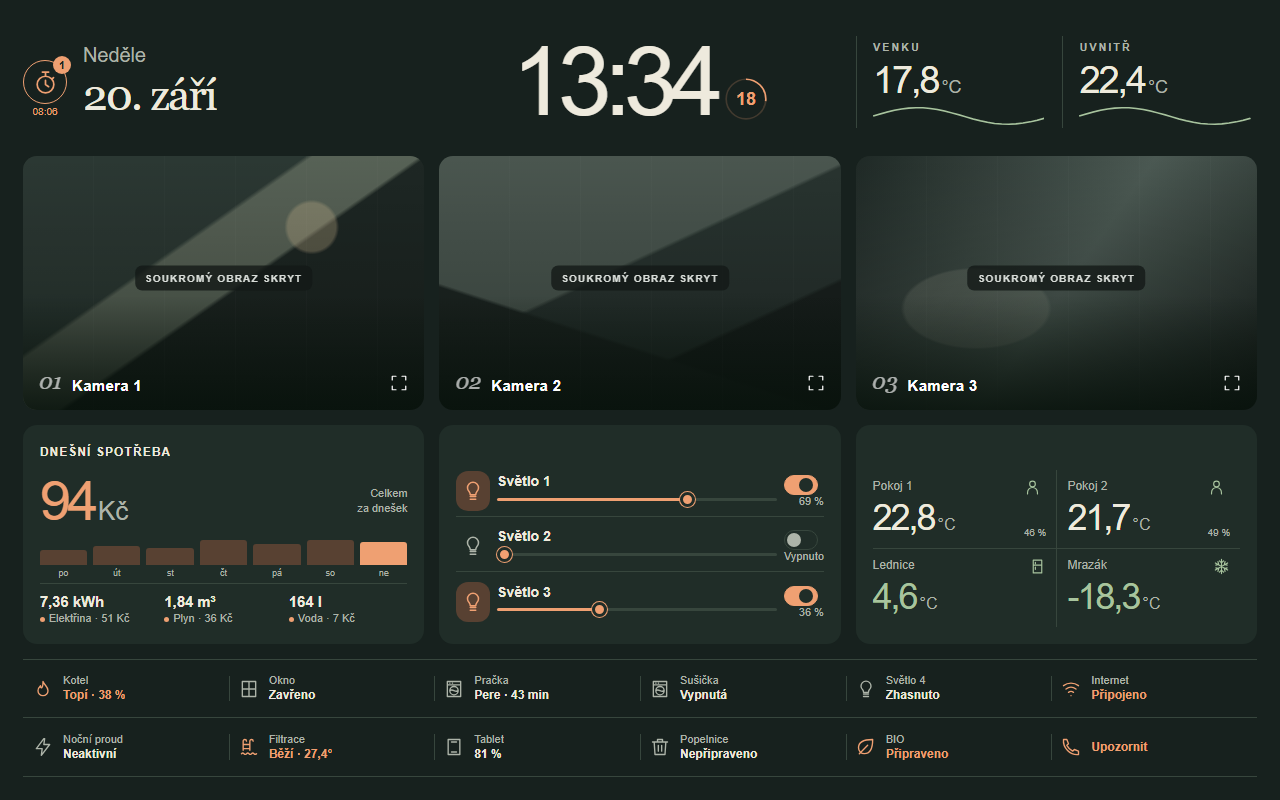
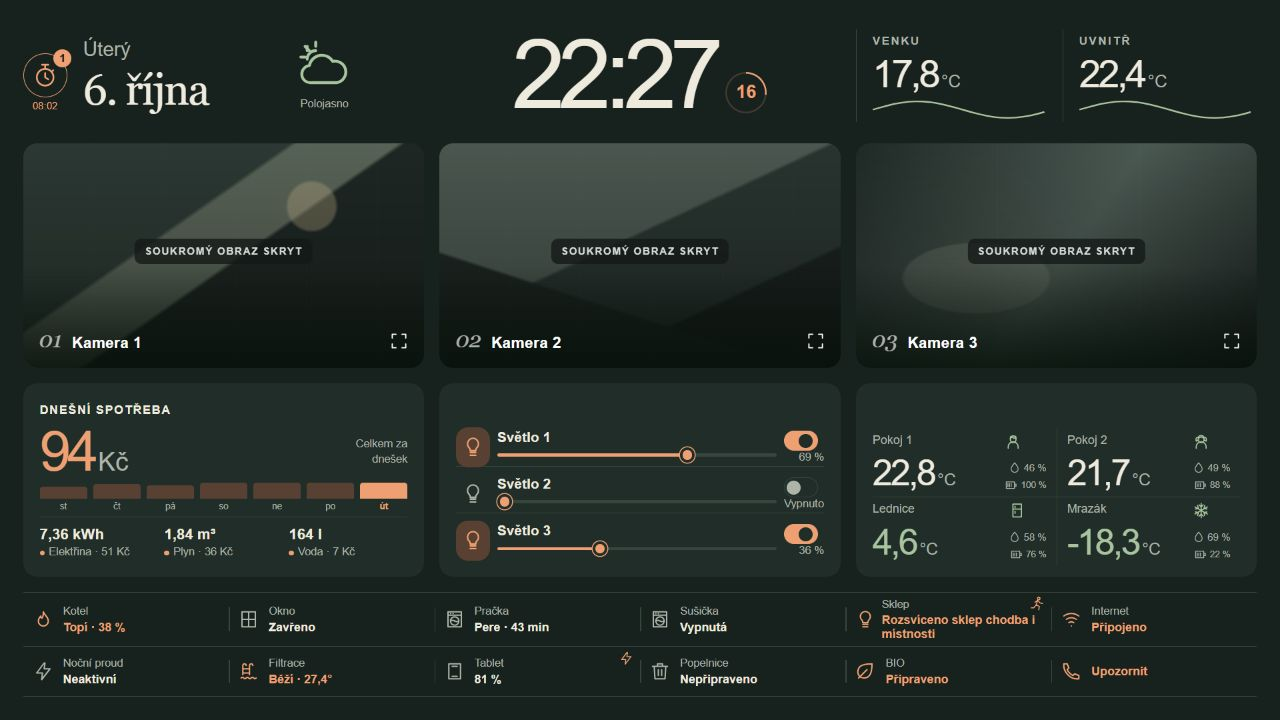
Interaktivní graf spotřeby, výběr dne a aktualizovaný náhled

diff --git a/www/kitchen-atlas.js b/www/kitchen-atlas.js
@@ -20,6 +20,8 @@ const LIGHTS=[['light.example_light_1','Světlo 1','Pracovní plocha'],['light.e
 const CAMERAS=[['camera.example_camera_1','Kamera 1'],['camera.example_camera_2','Kamera 2'],['camera.example_camera_3','Kamera 3']];
 const TEMPS=[['sensor.example_room_1_temperature','Pokoj 1','boy','sensor.example_room_1_humidity','sensor.example_room_1_battery'],['sensor.example_room_2_temperature','Pokoj 2','girl','sensor.example_room_2_humidity','sensor.example_room_2_battery'],['sensor.example_fridge_temperature','Lednice','fridge','sensor.example_fridge_humidity','sensor.example_fridge_battery'],['sensor.example_freezer_temperature','Mrazák','snow','sensor.example_freezer_humidity','sensor.example_freezer_battery']];
 const STATUS=[['binary_sensor.example_heating_active','Kotel','flame'],['binary_sensor.example_window_open','Okno','window'],['sensor.example_washer_state','Pračka','washer'],['sensor.example_dryer_state','Sušička','washer'],['switch.example_cellar_hall','Sklep','bulb'],['binary_sensor.example_internet_online','Internet','wifi'],['binary_sensor.example_low_tariff','Noční proud','bolt'],['switch.example_pool_filter','Filtrace','pool'],['sensor.example_tablet_battery','Tablet','battery'],['input_boolean.example_bin_ready','Popelnice','bin'],['input_boolean.example_bio_bin_ready','BIO','leaf'],['input_button.example_notification_button','Upozornit','phone']];
+const ENERGY_METRICS=[['electric','sensor.example_daily_electricity','sensor.example_daily_electricity_cost',2],['gas','sensor.example_daily_gas','sensor.example_daily_gas_cost',2],['water','sensor.example_daily_water','sensor.example_daily_water_cost',0]];
+const ENERGY_TOTAL='sensor.example_daily_total_cost';
 const WEATHER_ENTITY='weather.example_weather';
 const HEATING_ENTITY='climate.example_thermostat';
 const CELLAR_LIGHTS=[['switch.example_cellar_hall','Chodba'],['switch.example_cellar_room_1','Místnost 1'],['switch.example_cellar_room_2','Místnost 2'],['switch.example_cellar_room_3','Místnost 3'],['switch.example_cellar_room_4','Místnost 4']];
@@ -44,7 +46,7 @@ const CSS=`
 @media(max-width:760px){.weather-mark{gap:3px}.weather-mark svg{width:24px;height:24px}.weather-label{font-size:9px}}
 .timeblock{display:flex;align-items:center;justify-content:center;gap:8px}.clock{font-size:clamp(56px,7.5vw,110px);font-weight:500;letter-spacing:-.075em;line-height:1;color:var(--ink)}.seconds-wrap{display:grid;place-items:center;position:relative;width:44px;height:44px;align-self:end;margin-bottom:9px;color:var(--accent)}.seconds-wrap svg{position:absolute;inset:0;width:100%;height:100%;transform:rotate(-90deg)}.seconds{font-size:18px;font-weight:600}.seconds-ring{stroke-dasharray:113;stroke-dashoffset:113;transition:stroke-dashoffset .3s}.ambients{display:grid;grid-template-columns:1fr 1fr;align-items:center;gap:12px}.ambient{padding-left:16px;border-left:1px solid var(--line);min-width:0;text-align:left}.ambient .value{font-size:clamp(26px,3vw,40px);letter-spacing:-.06em;margin-top:3px;white-space:nowrap}.unit{font-size:.46em;font-weight:400;letter-spacing:0;color:var(--muted);margin-left:3px}.spark{height:22px;width:100%;margin-top:3px;display:block;color:var(--green)}
 .cameras{display:grid;grid-template-columns:repeat(3,minmax(0,1fr));gap:var(--gap);min-height:0}.camera{position:relative;background:#1a2420;overflow:hidden;border-radius:14px;min-width:0}.camera-stream{position:absolute;inset:0;display:block;width:100%;height:100%;--ha-card-background:transparent}.camera button{position:absolute;inset:0;display:flex;align-items:flex-end;width:100%;text-align:left;padding:16px;background:linear-gradient(transparent 55%,#07120bd1);color:#fff;gap:10px}.cam-number{font:italic 22px Georgia,serif;opacity:.65}.cam-name{font-size:15px;font-weight:600;letter-spacing:.02em}.camera button svg{margin-left:auto;width:18px}.cam-message{position:absolute;inset:0;display:grid;place-items:center;color:#cad7cd;font-size:13px}.camera-stream{z-index:1}.camera button{z-index:2}
-.desk{display:grid;grid-template-columns:repeat(3,minmax(0,1fr));gap:var(--gap);min-height:0}.panel{background:var(--panel);border-radius:14px;padding:clamp(12px,1.3vw,18px);min-height:0;overflow:hidden;position:relative}.panel-head{display:flex;align-items:center;justify-content:space-between;height:20px;gap:8px;margin-bottom:8px}.panel-head h2{font-size:12px;letter-spacing:.09em;text-transform:uppercase;margin:0;font-weight:700}.panel-head>span{color:var(--muted);font-size:11px}.energy{display:grid;grid-template-rows:20px minmax(36px,1fr) minmax(20px,.55fr) 44px;gap:5px}.energy .panel-head{margin:0}.total{display:flex;align-items:center;justify-content:space-between;padding:0;text-align:left}.total-value{font-size:clamp(34px,4.4vw,61px);letter-spacing:-.065em;color:var(--accent);line-height:1}.total-caption{font-size:11px;color:var(--muted);max-width:65px;line-height:1.4;text-align:right}.bars{display:flex;gap:6px;align-items:flex-end;min-height:18px}.bar-col{flex:1;height:100%;display:flex;flex-direction:column;align-items:stretch;justify-content:flex-end;gap:3px}.bar{background:var(--soft);border-radius:3px 3px 0 0;min-height:2px}.bar-col:last-child .bar{background:var(--accent)}.bar-label{font-size:9px;color:var(--muted);text-align:center;line-height:10px}.breakdown{display:grid;grid-template-columns:repeat(3,minmax(0,1fr));border-top:1px solid var(--line);padding-top:7px;gap:6px}.consumption{text-align:left;padding:0}.consumption strong{font-size:clamp(12px,1.16vw,16px);display:block;white-space:nowrap}.consumption small{display:block;font-size:11px;color:var(--muted);margin-top:2px;white-space:nowrap}.consumption .dot{display:inline-block;width:5px;height:5px;border-radius:50%;background:var(--accent);margin-right:4px}
+.desk{display:grid;grid-template-columns:repeat(3,minmax(0,1fr));gap:var(--gap);min-height:0}.panel{background:var(--panel);border-radius:14px;padding:clamp(12px,1.3vw,18px);min-height:0;overflow:hidden;position:relative}.panel-head{display:flex;align-items:center;justify-content:space-between;height:20px;gap:8px;margin-bottom:8px}.panel-head h2{font-size:12px;letter-spacing:.09em;text-transform:uppercase;margin:0;font-weight:700}.panel-head>span{color:var(--muted);font-size:11px}.energy{display:grid;grid-template-rows:20px minmax(36px,1fr) minmax(20px,.55fr) 44px;gap:5px}.energy .panel-head{margin:0}.total{display:flex;align-items:center;justify-content:space-between;padding:0;text-align:left}.total-value{font-size:clamp(34px,4.4vw,61px);letter-spacing:-.065em;color:var(--accent);line-height:1}.total-caption{font-size:11px;color:var(--muted);max-width:65px;line-height:1.4;text-align:right}.bars{display:flex;gap:6px;align-items:flex-end;min-height:18px}.bar-col{flex:1;height:100%;display:flex;flex-direction:column;align-items:stretch;justify-content:flex-end;gap:3px}.bar{background:var(--soft);border-radius:3px 3px 0 0;min-height:2px}.bar-col.selected .bar{background:var(--accent)}.bar-col.selected .bar-label{color:var(--accent);font-weight:700}.bar-col{padding:0;text-align:center;cursor:pointer}.bar-col:focus-visible{outline:1px solid var(--accent);outline-offset:2px;border-radius:3px}.energy-today{font-size:10px;color:var(--accent);padding:3px 6px;border:1px solid var(--line);border-radius:5px}.energy-today[hidden]{display:none}.bar-label{font-size:9px;color:var(--muted);text-align:center;line-height:10px}.breakdown{display:grid;grid-template-columns:repeat(3,minmax(0,1fr));border-top:1px solid var(--line);padding-top:7px;gap:6px}.consumption{text-align:left;padding:0}.consumption strong{font-size:clamp(12px,1.16vw,16px);display:block;white-space:nowrap}.consumption small{display:block;font-size:11px;color:var(--muted);margin-top:2px;white-space:nowrap}.consumption .dot{display:inline-block;width:5px;height:5px;border-radius:50%;background:var(--accent);margin-right:4px}
 .lights-panel{display:grid;grid-template-rows:20px repeat(3,minmax(0,1fr));gap:4px}.lights-panel .panel-head{margin:0}.light{display:grid;grid-template-columns:34px 1fr 40px;gap:7px;align-items:center;border-bottom:1px solid var(--line);padding:3px 0}.light:last-child{border-bottom:0}.light-toggle{width:34px;height:40px;display:grid;place-items:center;color:var(--muted);border-radius:12px}.light.on .light-toggle{color:var(--accent);background:var(--soft)}.light-label{font-size:14px;font-weight:600}.light-value{font-size:11px;text-align:right;color:var(--muted)}.light input{display:block;width:100%;height:20px;margin:0;appearance:none;background:transparent;cursor:pointer;touch-action:pan-y}.light input::-webkit-slider-runnable-track{height:3px;background:linear-gradient(to right,var(--accent) var(--level,0%),var(--line) var(--level,0%));border-radius:3px}.light input::-webkit-slider-thumb{appearance:none;width:15px;height:15px;border:3px solid var(--panel);border-radius:50%;background:var(--accent);margin-top:-6px;box-shadow:0 0 0 1px var(--accent)}.light input:disabled{opacity:.45;cursor:default}.switch{border:1px solid var(--line);border-radius:20px;width:34px;height:20px;padding:2px;display:block;transition:background .2s}.switch:before{content:'';display:block;height:14px;width:14px;border-radius:50%;background:var(--muted);transition:transform .2s}.light.on .switch{background:var(--accent);border-color:var(--accent)}.light.on .switch:before{background:var(--panel);transform:translateX(12px)}
 .climate{display:grid;grid-template-rows:20px 1fr;gap:8px}.climate .panel-head{margin:0}.temps{display:grid;grid-template-columns:1fr 1fr;grid-template-rows:1fr 1fr;gap:0;min-height:0}.temp{display:grid;grid-template-columns:1fr auto;align-content:center;text-align:left;padding:5px 10px;gap:4px;border-left:1px solid var(--line)}.temp:nth-child(odd){padding-left:0;border-left:0}.temp:nth-child(-n+2){border-bottom:1px solid var(--line)}.temp-label{font-size:12px;color:var(--muted)}.temp svg{width:17px;height:17px;color:var(--green)}.temp-value{font-size:clamp(25px,2.8vw,38px);line-height:1.05;letter-spacing:-.055em;white-space:nowrap}.humidity{display:inline-flex;align-items:center;gap:3px;font-size:10px;color:var(--muted);align-self:end;text-align:right}.humidity svg{width:12px;height:12px;color:inherit}.temp-details{display:flex;flex-direction:column;align-items:flex-end;justify-content:flex-end;gap:5px;min-width:0}.temp-battery{display:inline-flex;align-items:center;gap:3px;font-size:9px;line-height:1;color:var(--muted);white-space:nowrap}.temp-battery svg{width:13px;height:13px;color:inherit}.temp-battery.low{color:#e6a76a}.temp.cold .temp-value{color:var(--green)}
 .status-strip{display:grid;grid-template-columns:repeat(6,minmax(0,1fr));grid-template-rows:1fr 1fr;border-top:1px solid var(--line);min-height:0}.status{display:flex;align-items:center;text-align:left;gap:10px;min-width:0;padding:5px 10px;border-bottom:1px solid var(--line);position:relative}.status:not(:nth-child(6n+1)):before{content:'';position:absolute;height:45%;width:1px;background:var(--line);left:0;top:27%}.status svg{color:var(--muted);width:20px;height:20px}.status-text{min-width:0}.status-label{display:block;font-size:11px;color:var(--muted);margin-bottom:3px}.status-value{display:block;font-size:12px;font-weight:600;line-height:1.15;white-space:normal}.status.active svg{color:var(--accent)}.status.active .status-value{color:var(--accent)}.status.call{color:var(--accent)}.status.call svg{color:var(--accent)}.status.call .status-label{color:var(--accent);font-size:12px;font-weight:600;margin:0}.status.call .status-value{display:none}
@@ -106,7 +108,7 @@ class KitchenAtlas extends HTMLElement {
  <div class="timeblock" aria-label="Aktuální čas"><time class="clock" id="clock">--:--</time><div class="seconds-wrap"><svg viewBox="0 0 40 40" fill="none"><circle cx="20" cy="20" r="18" stroke="currentColor" opacity=".2" stroke-width="1.5"/><circle class="seconds-ring" cx="20" cy="20" r="18" stroke="currentColor" stroke-width="1.5"/></svg><span class="seconds" id="seconds">--</span></div></div>
  <div class="ambients"><button class="ambient" data-info="sensor.example_outdoor_temperature"><span class="eyebrow">Venku</span><div class="value"><span id="outside">—</span><span class="unit">°C</span></div><svg class="spark" id="outside-spark" viewBox="0 0 120 24" preserveAspectRatio="none"></svg></button><button class="ambient" data-info="sensor.example_indoor_temperature"><span class="eyebrow">Uvnitř</span><div class="value"><span id="inside">—</span><span class="unit">°C</span></div><svg class="spark" id="inside-spark" viewBox="0 0 120 24" preserveAspectRatio="none"></svg></button></div></header>
  <section class="cameras" aria-label="Kamery">${CAMERAS.map(([id,name],i)=>`<div class="camera"><span class="cam-message">Připojuji kameru…</span><div class="camera-stream" data-camera="${id}"></div><button data-expand="${id}" aria-label="Zvětšit kameru ${name}"><span class="cam-number">0${i+1}</span><span class="cam-name">${name}</span>${ai('expand')}</button></div>`).join('')}</section>
- <section class="desk"><section class="panel energy"><div class="panel-head"><h2>Dnešní spotřeba</h2></div><button class="total" data-info="sensor.example_daily_total_cost"><span class="total-value"><span id="cost">—</span><span class="unit">Kč</span></span><span class="total-caption">Celkem<br>za dnešek</span></button><div class="bars" aria-label="Denní náklady za posledních sedm dní"><span class="eyebrow" id="history-label">Načítám historii</span></div><div class="breakdown">${[['sensor.example_daily_electricity','bolt','Elektřina','kWh','electric'],['sensor.example_daily_gas','flame','Plyn','m³','gas'],['sensor.example_daily_water','drop','Voda','l','water']].map(([id,icon,name,unit,key])=>`<button class="consumption" data-info="${id}" aria-label="${name}"><strong><span id="${key}-amount">—</span> ${unit}</strong><small><i class="dot"></i>${name} · <span id="${key}-cost">—</span> Kč</small></button>`).join('')}</div></section>
+ <section class="desk"><section class="panel energy"><div class="panel-head"><h2 id="energy-heading">Dnešní spotřeba</h2><button class="energy-today" data-energy-today="true" hidden>Dnes</button></div><button class="total" data-info="sensor.example_daily_total_cost"><span class="total-value"><span id="cost">—</span><span class="unit">Kč</span></span><span class="total-caption" id="energy-caption">Celkem<br>za dnešek</span></button><div class="bars" aria-label="Denní náklady za posledních sedm dní"><span class="eyebrow" id="history-label">Načítám historii</span></div><div class="breakdown">${[['sensor.example_daily_electricity','bolt','Elektřina','kWh','electric'],['sensor.example_daily_gas','flame','Plyn','m³','gas'],['sensor.example_daily_water','drop','Voda','l','water']].map(([id,icon,name,unit,key])=>`<button class="consumption" data-info="${id}" aria-label="${name}"><strong><span id="${key}-amount">—</span> ${unit}</strong><small><i class="dot"></i>${name} · <span id="${key}-cost">—</span> Kč</small></button>`).join('')}</div></section>
  <section class="panel lights-panel"><div class="panel-head"></div>${LIGHTS.map(([id,name,desc],i)=>`<div class="light" data-light="${id}"><button class="light-toggle" data-toggle="${id}" aria-label="Přepnout světlo ${name}">${ai('bulb')}</button><div><div class="light-label">${name}</div><input type="range" min="0" max="100" step="1" value="0" data-brightness="${id}" aria-label="Jas ${name}"></div><div><button class="switch" data-toggle="${id}" role="switch" aria-label="Světlo ${name}" aria-checked="false"></button><div class="light-value" id="light-${i}-value">—</div></div></div>`).join('')}</section>
  <section class="panel climate"><div class="panel-head"></div><div class="temps">${TEMPS.map(([id,name,icon,hum],i)=>`<button class="temp ${i>1?'cold':''}" data-info="${id}"><span class="temp-label">${name}</span>${ai(icon)}<span class="temp-value"><span id="temp-${i}">—</span><span class="unit">°C</span></span><span class="temp-details">${hum?`<span class="humidity" title="Relativní vlhkost">${ai("drop")}<span id="humidity-${i}"></span></span>`:""}<span class="temp-battery" id="temp-battery-${i}">${ai("batteryMini")}<span>—</span></span></span></button>`).join('')}</div></section></section>
  <footer class="status-strip" aria-label="Stav domácnosti">${STATUS.map(([id,name,icon],i)=>`<button class="status ${i===11?'call':''}" data-status="${id}" aria-label="${name}">${ai(icon)}${i===8?`<span class="tablet-power" hidden title="Připojeno k napájení">${ai("bolt")}</span>`:""}${i===4?`<span class="cellar-motion" title="Pohyb ve sklepě">${ai('run')}</span>`:''}<span class="status-text"><span class="status-label">${name}</span><span class="status-value" id="status-${i}">—</span></span></button>`).join('')}</footer>
@@ -121,14 +123,14 @@ class KitchenAtlas extends HTMLElement {
  _clock(){const d=new Date(),zone=this._hass?.config?.time_zone||'Europe/Prague';const parts=new Intl.DateTimeFormat('cs-CZ',{hour:'2-digit',minute:'2-digit',second:'2-digit',hourCycle:'h23',timeZone:zone}).formatToParts(d);const p=t=>parts.find(x=>x.type===t)?.value||'00';this._text('#clock',p('hour')+':'+p('minute'));this._text('#seconds',p('second'));const weekday=new Intl.DateTimeFormat('cs-CZ',{weekday:'long',timeZone:zone}).format(d);this._text('#weekday',weekday.charAt(0).toLocaleUpperCase('cs-CZ')+weekday.slice(1));this._text('#calendar-date',new Intl.DateTimeFormat('cs-CZ',{day:'numeric',month:'long',timeZone:zone}).format(d));this.shadowRoot.querySelector('.seconds-ring')?.style.setProperty('stroke-dashoffset',String(113*(1-Number(p('second'))/60)));if(!this._serverClockSyncAt||Date.now()-this._serverClockSyncAt>300000)this._syncServerClock();this._updateMinutky();}
  _weatherState(){const condition=this._s(WEATHER_ENTITY)?.state;const states={sunny:["sun","Slunečno"],"clear-night":["moon","Jasná noc"],partlycloudy:["partly","Polojasno"],cloudy:["cloud","Zataženo"],fog:["fog","Mlha"],rainy:["rain","Déšť"],pouring:["rain","Silný déšť"],lightning:["storm","Bouřka"],"lightning-rainy":["storm","Bouřka s deštěm"],snowy:["snow","Sněžení"],"snowy-rainy":["snow","Déšť se sněhem"],hail:["rain","Kroupy"],windy:["wind","Větrno"],"windy-variant":["wind","Větrno a oblačno"],exceptional:["weatherUnknown","Výjimečné počasí"]};const [icon,label]=states[condition]||["weatherUnknown","Počasí není dostupné"];return {condition,icon,label};}
  _updateWeather(){const badge=this.shadowRoot.querySelector(".weather-mark");if(!badge)return;const weather=this._weatherState();badge.innerHTML=ai(weather.icon)+'<span class="weather-label">'+weather.label+'</span>';badge.title=weather.label;badge.setAttribute("aria-label","Počasí: "+weather.label);badge.setAttribute("data-condition",weather.condition||"unknown");}
- _update(){this._updateWeather();this._text('#outside',this._n('sensor.example_outdoor_temperature'));this._text('#inside',this._n('sensor.example_indoor_temperature'));this._text('#cost',this._n('sensor.example_daily_total_cost',0));[['electric','sensor.example_daily_electricity','sensor.example_daily_electricity_cost',2],['gas','sensor.example_daily_gas','sensor.example_daily_gas_cost',2],['water','sensor.example_daily_water','sensor.example_daily_water_cost',0]].forEach(([key,id,cost,d])=>{this._text('#'+key+'-amount',this._n(id,d));this._text('#'+key+'-cost',this._n(cost,0));});
+ _update(){this._updateWeather();this._text('#outside',this._n('sensor.example_outdoor_temperature'));this._text('#inside',this._n('sensor.example_indoor_temperature'));this._updateEnergy();
  LIGHTS.forEach(([id],i)=>{const s=this._s(id),available=s&&!['unavailable','unknown'].includes(s.state),on=s?.state==='on';const row=this.shadowRoot.querySelector(`[data-light="${id}"]`);row.classList.toggle('on',on);const range=row.querySelector('input');const pct=on?Math.round((s.attributes.brightness||0)/255*100):0;range.disabled=!available;row.querySelectorAll('[data-toggle]').forEach(b=>{b.disabled=!available;if(b.getAttribute('role')==='switch')b.setAttribute('aria-checked',String(on));});if(this._dragging!==range){range.value=pct;range.style.setProperty('--level',pct+'%');this._text('#light-'+i+'-value',on?pct+' %':available?'Vypnuto':'Vypínač');}});
  TEMPS.forEach(([id,name,icon,hum],i)=>{this._text('#temp-'+i,this._n(id));if(hum)this._text('#humidity-'+i,this._n(hum,0)+' %');});this._updateTempBatteries();this._updateStatuses();this._updateHeating();this._updateMinutky();this._cameraNodes.forEach(({node,id})=>{node.hass=this._hass;node.stateObj=this._s(id);});}
  _updateTempBatteries(){TEMPS.forEach(([id,name,icon,hum,battery],i)=>{const badge=this.shadowRoot.querySelector('#temp-battery-'+i);if(!badge)return;const value=this._number(battery),valid=value!==null&&value>=0&&value<=100,text=valid?Math.round(value)+' %':'—';badge.querySelector('span').textContent=text;badge.classList.toggle('low',valid&&value<=20);badge.title=valid?'Baterie teploměru: '+text:'Stav baterie teploměru není dostupný';badge.setAttribute('aria-label',badge.title);});}
  _updateStatuses(){const texts=STATUS.map(([id],i)=>{const s=this._s(id),v=s?.state,known=s&&!['unavailable','unknown'].includes(v);switch(i){case 0:return v==='on'?('Topí · '+this._n('sensor.example_heating_level',0)+' %'):v==='off'?'Odpočívá':'—';case 1:return !known?'—':v==='on'?'Otevřeno · '+Math.max(0,Math.floor((Date.now()-new Date(s.last_changed))/60000))+' min':'Zavřeno';case 2:case 3:{if(!known)return'Vypnutá';const map={running:i===2?'Pere':'Suší',sleep:'Pohotovost',power_off:'Vypnutá',end:'Hotovo',pause:'Pozastaveno',spinning:'Odstřeďuje',rinsing:'Máchá',drying:'Suší',cooling:'Chladnutí',cool_down:'Chladnutí',wrinkle_care:'Proti pomačkání',error:'Chyba',initial:'Spouští se',detecting:'Zjišťuje náplň',reserved:'Odložený start',rinse_hold:'Čeká',refreshing:'Osvěžování',steam_softening:'Pára'};const remaining=this._number(i===2?'sensor.example_washer_remaining_minutes':'sensor.example_dryer_remaining_minutes');const active=!['sleep','power_off','end','error'].includes(v);return(map[v]||v)+(active&&remaining>0?' · '+Math.round(remaining)+' min':'');}case 4:return this._cellarState().text;case 5:return v==='on'?'Připojeno':v==='off'?'Odpojeno':'—';case 6:return v==='on'?'Aktivní':v==='off'?'Neaktivní':'—';case 7:return (v==='on'?'Běží':v==='off'?'Vypnuto':'—')+' · '+this._n('sensor.example_pool_temperature')+'°';case 8:return this._n(id,0)+' %';case 9:case 10:return v==='on'?'Připraveno':v==='off'?'Nepřipraveno':'—';case 11:return '';default:return'—';}});texts.forEach((t,i)=>{this._text('#status-'+i,t);const row=this.shadowRoot.querySelector(`[data-status="${STATUS[i][0]}"]`);row.classList.toggle('active',i===4?this._cellarState().on:this._s(STATUS[i][0])?.state==='on');if(i===8){const power=this._s('binary_sensor.example_tablet_plugged_in')?.state,plugged=power==='on',label=plugged?'Připojeno k napájení':power==='off'?'Napájení z baterie':'Stav napájení neznámý';const badge=row.querySelector('.tablet-power');if(badge)badge.hidden=!plugged;row.title=label;row.setAttribute('aria-label','Tablet: '+t+', '+label);}if(i===4){row.classList.add('cellar-status');const motion=row.querySelector('.cellar-motion');if(motion){motion.classList.toggle('motion-active',this._cellarState().motion);motion.title=this._cellarState().motion?'Detekován pohyb':'Bez pohybu';}row.setAttribute('aria-label','Sklep: '+t+(this._cellarState().motion?', detekován pohyb':''));}});this._updateCellar();}
  async _service(domain,service,data){if(!this._hass)return;try{await this._hass.callService(domain,service,data);}catch{this._toast('Povel se nepodařilo odeslat. Zkus to znovu.');}}
  _info(entity){this.dispatchEvent(new CustomEvent('hass-more-info',{detail:{entityId:entity},bubbles:true,composed:true}));}
- _click(e){const b=e.target.closest('button');if(!b||b.disabled)return;if(b.dataset.heating)return this._heatingAction(b.dataset.heating);if(b.dataset.heatingHours)return this._heatingHistory(Number(b.dataset.heatingHours));if(b.dataset.cellarClose)return this.shadowRoot.querySelector('.cellar-dialog').close();if(b.dataset.cellarToggle&&CELLAR_LIGHTS.some(([id])=>id===b.dataset.cellarToggle))return this._service('switch','toggle',{entity_id:b.dataset.cellarToggle});if(b.dataset.callReason)return this._callDad(b.dataset.callReason);if(b.dataset.callDialog==='close')return this.shadowRoot.querySelector('.call-dialog').close();if(b.dataset.minutka)return this._minutkaAction(b.dataset.minutka,Number(b.dataset.slot));if(b.dataset.preset){const c=b.closest('.minutka-card');c.querySelector('[data-hours]').value=0;c.querySelector('[data-minutes]').value=b.dataset.preset;c.querySelector('[data-seconds]').value=0;return;}if(b.dataset.info)return this._info(b.dataset.info);if(b.dataset.toggle)return this._service('light','toggle',{entity_id:b.dataset.toggle});if(b.dataset.expand)return this._openCamera(b.dataset.expand);if(b.closest('.dialog-header'))return this.shadowRoot.querySelector('.camera-dialog').close();if(b.dataset.status){const id=b.dataset.status;if(id==='binary_sensor.example_heating_active')return this._openHeating();if(id==='switch.example_cellar_hall')return this._openCellar();if(['switch.example_pool_filter'].includes(id))return this._service('switch','toggle',{entity_id:id});if(id==='input_button.example_notification_button')return this._openCallDialog();this._info(id);}}
+ _click(e){const b=e.target.closest('button');if(!b||b.disabled)return;if(b.dataset.energyDay)return this._selectEnergyDay(b.dataset.energyDay);if(b.dataset.energyToday)return this._selectEnergyDay(this._energyToday());if(b.dataset.heating)return this._heatingAction(b.dataset.heating);if(b.dataset.heatingHours)return this._heatingHistory(Number(b.dataset.heatingHours));if(b.dataset.cellarClose)return this.shadowRoot.querySelector('.cellar-dialog').close();if(b.dataset.cellarToggle&&CELLAR_LIGHTS.some(([id])=>id===b.dataset.cellarToggle))return this._service('switch','toggle',{entity_id:b.dataset.cellarToggle});if(b.dataset.callReason)return this._callDad(b.dataset.callReason);if(b.dataset.callDialog==='close')return this.shadowRoot.querySelector('.call-dialog').close();if(b.dataset.minutka)return this._minutkaAction(b.dataset.minutka,Number(b.dataset.slot));if(b.dataset.preset){const c=b.closest('.minutka-card');c.querySelector('[data-hours]').value=0;c.querySelector('[data-minutes]').value=b.dataset.preset;c.querySelector('[data-seconds]').value=0;return;}if(b.dataset.info)return this._info(b.dataset.info);if(b.dataset.toggle)return this._service('light','toggle',{entity_id:b.dataset.toggle});if(b.dataset.expand)return this._openCamera(b.dataset.expand);if(b.closest('.dialog-header'))return this.shadowRoot.querySelector('.camera-dialog').close();if(b.dataset.status){const id=b.dataset.status;if(id==='binary_sensor.example_heating_active')return this._openHeating();if(id==='switch.example_cellar_hall')return this._openCellar();if(['switch.example_pool_filter'].includes(id))return this._service('switch','toggle',{entity_id:id});if(id==='input_button.example_notification_button')return this._openCallDialog();this._info(id);}}
  _openHeating(){let d=this.shadowRoot.querySelector('.heating-dialog');if(!d){d=document.createElement('dialog');d.className='heating-dialog';d.setAttribute('aria-labelledby','heating-title');d.innerHTML=`<div class="minutka-header"><h2 id="heating-title">Kotel a termostat</h2><button data-heating="close" aria-label="Zavřít kotel">${ai('close')}</button></div><div class="heating-body"><section class="heating-controls"><div><span class="status-label">Teplota v místnosti</span><strong class="heating-current">—</strong><span class="heating-state"></span></div><div class="heating-setting"><label for="heating-target">Požadovaná teplota</label><div><button data-heating="minus" aria-label="Snížit teplotu">−</button><input id="heating-target" type="number" inputmode="decimal" aria-label="Požadovaná teplota"><span>°C</span><button data-heating="plus" aria-label="Zvýšit teplotu">+</button></div></div><div class="heating-modes"><button data-heating="heat">Zapnout topení</button><button data-heating="off">Vypnout topení</button></div></section><p class="heating-window" hidden>Otevřené okno v ložnici: topení řídí také automatická pauza.</p><div class="heating-history-header"><strong>Historie topení</strong><div><button data-heating-hours="24">24 hodin</button><button data-heating-hours="168">7 dní</button></div></div><div class="heating-history" aria-live="polite"></div></div>`;this.shadowRoot.append(d);d.querySelector('input').addEventListener('input',()=>{this._heatingDirty=true;this._scheduleHeatingUpdate();});d.querySelector('input').addEventListener('change',()=>{clearTimeout(this._heatingSetTimer);this._heatingAction('apply');});d.addEventListener('close',()=>{if(this._heatingDirty){clearTimeout(this._heatingSetTimer);this._heatingAction('apply');}});}this._heatingDirty=false;this._updateHeating();if(!d.open)d.showModal();this._heatingHistory(this._heatingHours||24);}
  _updateHeating(){const d=this.shadowRoot.querySelector('.heating-dialog');if(!d)return;const s=this._s(HEATING_ENTITY),a=s?.attributes||{},known=s&&['heat','off','cool'].includes(s.state),input=d.querySelector('input');input.min=a.min_temp??19;input.max=a.max_temp??24;input.step=a.target_temp_step||.1;if(!this._heatingDirty&&this.shadowRoot.activeElement!==input)input.value=Number.isFinite(a.temperature)?a.temperature:'';input.disabled=!known;d.querySelectorAll('[data-heating]').forEach(b=>{if(b.dataset.heating!=='close'){b.disabled=!known;b.classList.toggle('selected',b.dataset.heating===s?.state);}});this._text('.heating-current',Number.isFinite(a.current_temperature)?a.current_temperature.toLocaleString('cs-CZ',{maximumFractionDigits:1})+' °C':'—');this._text('.heating-state',!known?'Termostat nedostupný':s.state==='off'?'Topení vypnuto':this._s('binary_sensor.example_flame_active')?.state==='on'?'Hořák běží':'Termostat zapnutý · hořák v klidu');d.querySelector('.heating-window').hidden=this._s('binary_sensor.example_window_open')?.state!=='on';this._heatingCards?.forEach(c=>{c.hass=this._hass;});}
  _scheduleHeatingUpdate(){clearTimeout(this._heatingSetTimer);const input=this.shadowRoot.querySelector('#heating-target'),a=this._s(HEATING_ENTITY)?.attributes||{},v=Number(input?.value);if(!input?.value||!Number.isFinite(v)||v<(a.min_temp??19)||v>(a.max_temp??24))return;this._heatingSetTimer=setTimeout(()=>this._heatingAction('apply'),600);}
@@ -154,8 +156,16 @@ class KitchenAtlas extends HTMLElement {
  _makeStream(id){const node=document.createElement('ha-camera-stream');node.hass=this._hass;node.stateObj=this._s(id);node.muted=true;node.controls=false;node.fitMode='cover';node.style.cssText='width:100%;height:100%;display:block';return node;}
  _openCamera(id){if(!customElements.get('ha-camera-stream'))return this._info(id);const dialog=this.shadowRoot.querySelector('.camera-dialog');dialog.querySelector('strong').textContent=CAMERAS.find(c=>c[0]===id)?.[1]||'Kamera';const stream=this._makeStream(id);stream.fitMode='contain';stream.controls=true;dialog.querySelector('.dialog-video').replaceChildren(stream);if(typeof dialog.showModal==='function')dialog.showModal();else this._info(id);}
  _closeCamera(){this.shadowRoot.querySelector('.dialog-video').replaceChildren();}
- async _loadHistory(){if(!this.isConnected||!this._hass||this._historyBusy||Date.now()-this._historyAt<300000)return;this._historyBusy=true;this._historyAt=Date.now();const now=new Date(),dayStart=new Date(now);dayStart.setHours(0,0,0,0);dayStart.setDate(dayStart.getDate()-6);const tempStart=new Date(now.getTime()-86400000);try{const results=await Promise.allSettled([this._hass.callApi('GET',`history/period/${dayStart.toISOString()}?filter_entity_id=sensor.example_daily_total_cost&end_time=${now.toISOString()}&minimal_response&no_attributes`),this._hass.callApi('GET',`history/period/${tempStart.toISOString()}?filter_entity_id=sensor.example_outdoor_temperature,sensor.example_indoor_temperature&minimal_response&no_attributes`)]);if(!this.isConnected)return;
- if(results[0].status==='fulfilled'){const days=Array.from({length:7},(_,i)=>{const d=new Date(dayStart);d.setDate(d.getDate()+i);return {key:d.toLocaleDateString('sv-SE'),label:new Intl.DateTimeFormat('cs-CZ',{weekday:'short'}).format(d).replace('.',''),max:null};});for(const s of results[0].value.flat()){const n=Number(s.state);if(!Number.isFinite(n))continue;const key=new Date(s.last_changed||s.last_updated).toLocaleDateString('sv-SE');const d=days.find(x=>x.key===key);if(d)d.max=Math.max(d.max??0,n);}const max=Math.max(1,...days.map(d=>d.max||0));const bars=this.shadowRoot.querySelector('.bars');bars.replaceChildren();days.forEach(d=>{const col=document.createElement('div');col.className='bar-col';col.title=d.label+': '+(d.max===null?'bez dat':Math.round(d.max)+' Kč');const bar=document.createElement('div');bar.className='bar';bar.style.height=(d.max===null?0:Math.max(2,d.max/max*72))+'%';const label=document.createElement('span');label.className='bar-label';label.textContent=d.label;col.append(bar,label);bars.append(col);});}else this._text('#history-label','Historie není dostupná');
+ _energyZone(){return this._hass?.config?.time_zone||'Europe/Prague';}
+ _energyKey(date){return new Intl.DateTimeFormat('sv-SE',{timeZone:this._energyZone()}).format(date);}
+ _energyToday(){return this._energyKey(new Date());}
+ _energyDate(key){return new Intl.DateTimeFormat('cs-CZ',{day:'numeric',month:'long',timeZone:'UTC'}).format(new Date(key+'T12:00:00Z'));}
+ _aggregateEnergy(history,keys){const byId=new Map(history.filter(series=>series.length).map(series=>[series[0].entity_id,series.map(state=>({key:this._energyKey(new Date(state.last_changed||state.last_updated)),state:state.state})).filter(x=>keys.includes(x.key)||x.key<keys[0])]));return keys.map(key=>{const values={};for(const [id,series] of byId){let latest;for(const sample of series){if(sample.key>key)break;latest=sample.state;}const n=latest!==undefined&&String(latest).trim()!==''?Number(latest):NaN;values[id]=Number.isFinite(n)&&n>=0?n:null;}return {key,values};});}
+ _selectEnergyDay(key){if(key!==this._energyToday()&&!this._energyDays?.some(d=>d.key===key))return;this._energySelected=key===this._energyToday()?null:key;this._updateEnergy();this._renderEnergyBars();}
+ _updateEnergy(){const today=this._energyToday(),key=this._energySelected||today,live=key===today,day=this._energyDays?.find(d=>d.key===key);const value=id=>live?this._number(id):day?.values[id]??null;const format=(id,d)=>{const n=value(id);return n===null?'—':new Intl.NumberFormat('cs-CZ',{maximumFractionDigits:d,minimumFractionDigits:d}).format(n);};this._text('#energy-heading',live?'Dnešní spotřeba':'Spotřeba · '+this._energyDate(key));this._text('#energy-caption',live?'Celkem za dnešek':'Celkem za den');this._text('#cost',format(ENERGY_TOTAL,0));for(const [name,id,cost,d] of ENERGY_METRICS){this._text('#'+name+'-amount',format(id,d));this._text('#'+name+'-cost',format(cost,0));}const back=this.shadowRoot.querySelector('[data-energy-today]');if(back)back.hidden=live;this.shadowRoot.querySelectorAll('.energy [data-info]').forEach(b=>b.disabled=!live);}
+ _renderEnergyBars(){if(!this._energyDays)return;const today=this._energyToday(),selected=this._energySelected||today,values=this._energyDays.map(d=>d.key===today?this._number(ENERGY_TOTAL):d.values[ENERGY_TOTAL]??null),max=Math.max(1,...values.filter(n=>n!==null)),bars=this.shadowRoot.querySelector('.bars');bars.replaceChildren();this._energyDays.forEach((day,i)=>{const n=values[i],col=document.createElement('button');col.className='bar-col'+(day.key===selected?' selected':'');col.dataset.energyDay=day.key;col.title=this._energyDate(day.key)+': '+(n===null?'bez dat':Math.round(n)+' Kč');col.setAttribute('aria-label',col.title);col.setAttribute('aria-pressed',String(day.key===selected));const bar=document.createElement('span');bar.className='bar';bar.style.height=(n===null?0:Math.max(2,n/max*72))+'%';const label=document.createElement('span');label.className='bar-label';label.textContent=new Intl.DateTimeFormat('cs-CZ',{weekday:'short',timeZone:'UTC'}).format(new Date(day.key+'T12:00:00Z')).replace('.','');col.append(bar,label);bars.append(col);});}
+ async _loadHistory(){if(!this.isConnected||!this._hass||this._historyBusy||Date.now()-this._historyAt<300000)return;this._historyBusy=true;this._historyAt=Date.now();const now=new Date(),dayStart=new Date(now.getTime()-8*86400000);const tempStart=new Date(now.getTime()-86400000);try{const results=await Promise.allSettled([this._hass.callApi('GET',`history/period/${dayStart.toISOString()}?filter_entity_id=${[ENERGY_TOTAL,...ENERGY_METRICS.flatMap(([,id,cost])=>[id,cost])].join(",")}&end_time=${now.toISOString()}&minimal_response&no_attributes`),this._hass.callApi('GET',`history/period/${tempStart.toISOString()}?filter_entity_id=sensor.example_outdoor_temperature,sensor.example_indoor_temperature&minimal_response&no_attributes`)]);if(!this.isConnected)return;
+ if(results[0].status==='fulfilled'){const today=this._energyToday(),anchor=new Date(today+'T12:00:00Z'),keys=Array.from({length:7},(_,i)=>{const d=new Date(anchor);d.setUTCDate(d.getUTCDate()-6+i);return d.toISOString().slice(0,10);});this._energyDays=this._aggregateEnergy(results[0].value,keys);if(this._energySelected&&!keys.includes(this._energySelected))this._energySelected=null;this._updateEnergy();this._renderEnergyBars();}else this._text('#history-label','Historie není dostupná');
  if(results[1].status==='fulfilled')for(const series of results[1].value){const id=series[0]?.entity_id;const sel=id==='sensor.example_outdoor_temperature'?'#outside-spark':'#inside-spark';const vals=series.map(x=>Number(x.state)).filter(Number.isFinite);if(vals.length<2)continue;const step=Math.max(1,Math.floor(vals.length/50));const points=vals.filter((_,i)=>i%step===0);const min=Math.min(...points),max=Math.max(...points);const coords=points.map((v,i)=>(i/(points.length-1)*120).toFixed(1)+','+(21-(v-min)/(max-min||1)*18).toFixed(1)).join(' ');const svg=this.shadowRoot.querySelector(sel);const line=document.createElementNS('http://www.w3.org/2000/svg','polyline');line.setAttribute('points',coords);line.setAttribute('fill','none');line.setAttribute('stroke','currentColor');line.setAttribute('stroke-width','1.7');svg.replaceChildren(line);}
  }finally{this._historyBusy=false;}}
 }

diff --git a/README.en.md b/README.en.md
@@ -2,10 +2,11 @@
 
 A custom, permanently dark Home Assistant dashboard designed for a landscape kitchen tablet. It uses one local Web Component instead of a grid of standard Lovelace cards.
 
-![Actual dashboard layout with anonymized cameras and demo values](docs/dashboard-preview.jpg)
+![Actual dashboard layout with anonymized cameras and demo values](docs/dashboard-preview.png)
 
 ## Highlights
 
+- interactive seven-day chart: select a day to show its consumption and costs; Today returns to live readings
 - responsive landscape layout tested at 960 × 600 and 1280 × 800 CSS pixels
 - clock with seconds, date, indoor/outdoor temperature and seven-day cost chart
 - three live camera areas, dimmable lights, appliance and household states

diff --git a/README.md b/README.md
@@ -4,10 +4,11 @@ Vlastní trvale tmavý dashboard určený pro tablet položený na šířku. Hla
 
 [English version](README.en.md)
 
-![Skutečné rozložení dashboardu s anonymizovanými kamerami a ukázkovými hodnotami](docs/dashboard-preview.jpg)
+![Skutečné rozložení dashboardu s anonymizovanými kamerami a ukázkovými hodnotami](docs/dashboard-preview.png)
 
 ## Co obsahuje
 
+- interaktivní sedmidenní graf: klepnutí na den zobrazí jeho spotřeby a náklady; tlačítko Dnes vrátí živé údaje
 - hodiny se sekundami, datum a vnitřní i venkovní teplotu
 - tři kamery, tři světla, spotřeby, teploty a stav domácnosti
 - tři kuchyňské minutky běžící v Home Assistantu
